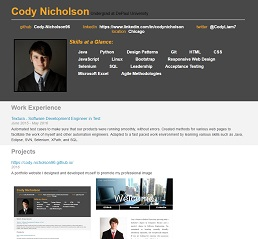
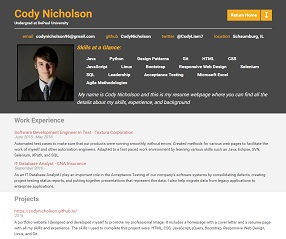
Added large resume pics

diff --git a/js/resumeBuilder.js b/js/resumeBuilder.js
@@ -115,7 +115,7 @@ var projects =
             "title" : "https://codynicholson.github.io/",
             "dates" : "2016",
             "description" : "A portfolio website I designed and developed myself to promote my professional image. It includes a homepage with a cover letter and a resume page with all my skills and experience. The skills I used to complete this project were: HTML, CSS, JavaScript, jQuery, Bootstrap, Responsive Web Design, Linux, and Git.",
-            "images" : ["../images/homepage.jpg", "../images/resumePage.jpg"]
+            "images" : ["../images/homepage.jpg", "../images/resumePage.jpg", "../images/resumePage2.jpg"]
         },
         {
             "title": "Eagle Project",

diff --git a/views/resume.html b/views/resume.html
@@ -54,8 +54,10 @@
   <script type="text/javascript">
     $(document).ready(function(){
       jQuery('#projects img').on("click", function () {
-      $('#myModal img').prop('src', $(this).prop('src'));
-      $('#myModal').css("display", "block");
+        var clickedPicSrc = $(this).prop('src');
+        clickedPicSrc = clickedPicSrc.slice(-100,-4)+"L"+clickedPicSrc.slice(-4);
+        $('#myModal img').prop('src', clickedPicSrc);
+        $('#myModal').css("display", "block");
     })});
   </script>
 
